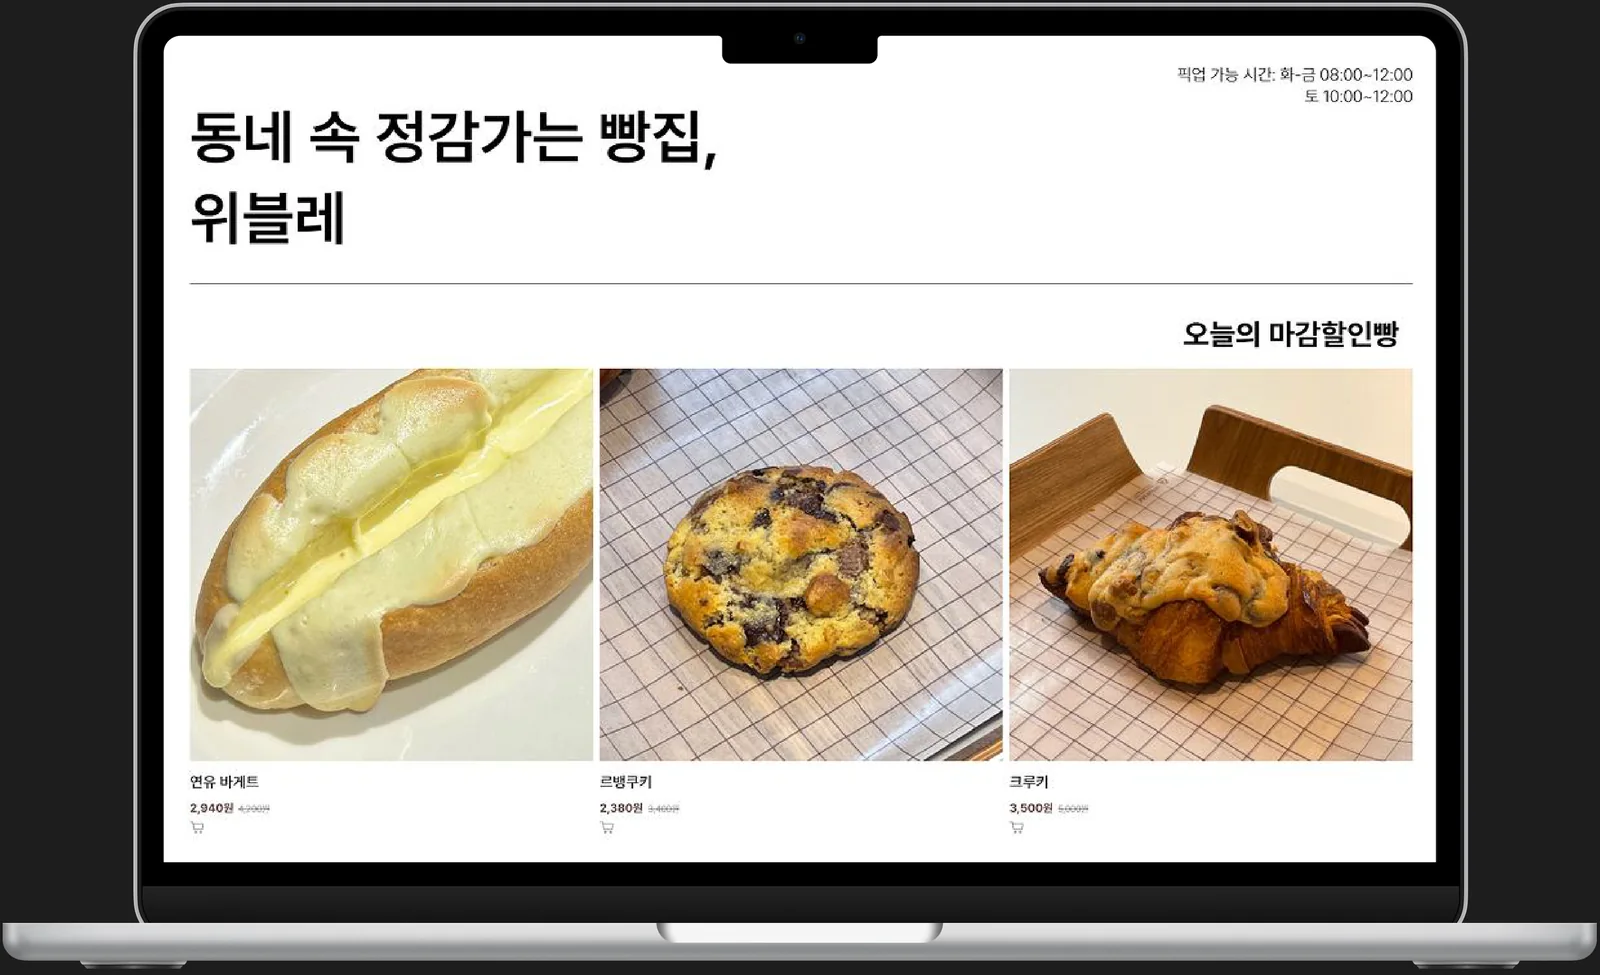
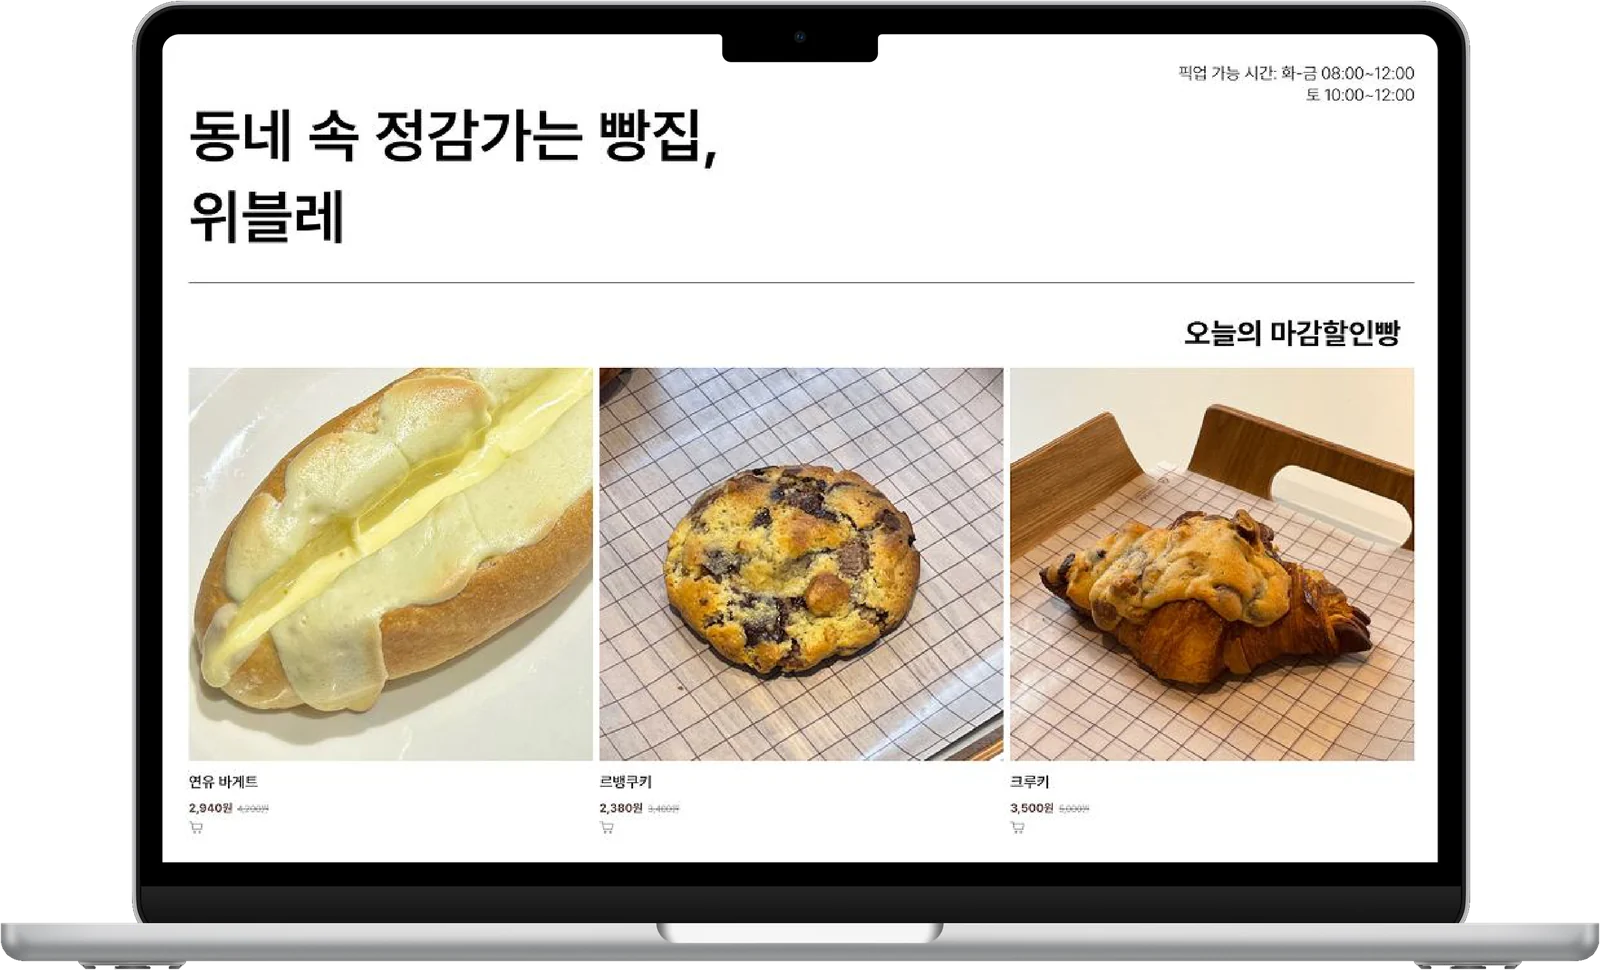
Remove the dark box around the laptop mockup
The cropped mockup carried the slide background; cut it out to a
transparent WebP and drop the CSS shadow and radius on the image.

Claude-Session: https://claude.ai/code/session_01FxkEBgLhQCfNmWDmJEwg39

diff --git a/assets/style.css b/assets/style.css
@@ -266,8 +266,8 @@ button { font-family: inherit; cursor: pointer; }
 .overview__title { color: var(--mint); font-size: clamp(34px, 3.6vw, 56px); font-weight: 800; letter-spacing: -0.02em; }
 .overview__sub { color: var(--text-dim); font-size: clamp(15px, 1.3vw, 20px); margin-top: 6px; }
 .overview__laptop { margin-top: 36px; }
-.overview__laptop img { border-radius: 14px; cursor: zoom-in; transition: transform 0.6s var(--ease), box-shadow 0.6s; box-shadow: 0 30px 60px rgba(0,0,0,0.35); }
-.overview__laptop img:hover { transform: translateY(-6px) scale(1.01); box-shadow: 0 40px 80px rgba(0,0,0,0.45); }
+.overview__laptop img { cursor: zoom-in; transition: transform 0.6s var(--ease); }
+.overview__laptop img:hover { transform: translateY(-6px) scale(1.01); }
 .overview__side { display: flex; flex-direction: column; align-items: center; gap: 30px; }
 .overview__mvp { text-align: center; }
 .overview__mvp h4 { color: var(--green); font-size: clamp(22px, 2vw, 30px); font-weight: 800; margin-bottom: 10px; }

diff --git a/index.html b/index.html
@@ -199,7 +199,7 @@
             <p class="overview__sub">버려지는 빵을 살려내는 우리 동네 빵집 마감할인 플랫폼</p>
           </div>
           <figure class="overview__laptop reveal">
-            <img src="assets/img/laptop.webp" alt="브레드랍 웹사이트 화면 - 동네 속 정감가는 빵집, 위블레 / 오늘의 마감할인빵" width="1600" height="976" data-lightbox>
+            <img src="assets/img/laptop.webp" alt="브레드랍 웹사이트 화면 - 동네 속 정감가는 빵집, 위블레 / 오늘의 마감할인빵" width="1600" height="970" data-lightbox>
           </figure>
         </div>
         <aside class="overview__side">

diff --git a/DESIGN.md b/DESIGN.md
@@ -289,7 +289,7 @@ Loader (오버레이)
 | 파일 | 규격 | 비고 |
 | --- | --- | --- |
 | `p*-L.webp`, `p*-R.webp` (폰 목업 12장) | 640×1283, WebP q84 | 프레임·그림자 포함. 원본 슬라이드에서 2.5배로 렌더 후 크롭 |
-| `laptop.webp` | 1600×976, WebP q84 | 노트북 프레임 포함 |
+| `laptop.webp` | 1600×970, WebP q86, 투명 배경 | 노트북 프레임 포함, 그림자·테두리 없음 |
 | `icon-*.webp` (11개) | 200×200, 원형 알파 마스크 | 민트 원 배경 포함 |
 | `avatar.webp` | 360×360, 원형 알파 마스크 | |
 | `portfolio.pdf` | 원본 | "PDF 원본 보기" 링크 |
